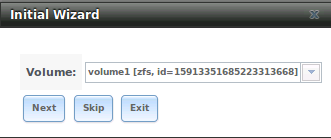
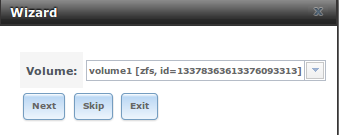
Update initial wizard.

Changed region(s): [[0.0, 0.0889, 1.0, 1.0], [0.0604, 0.6815, 0.4834, 0.8889], [0.0, 0.0, 1.0, 0.1481]]

diff --git a/docs/userguide/freenas_quick.rst b/docs/userguide/freenas_quick.rst
@@ -129,9 +129,25 @@ Beginning with FreeNAS® 9.3, a configuration wizard automatically starts the fi
 steps needed to quickly configure FreeNAS® to start serving data over a network. This section describes these configuration steps. If you wish to use the
 wizard again after the initial configuration, click the "Wizard" icon.
 
-Figure 3.1a shows the initial wizard configuration screen that appears if the storage disks have not yet been formatted.
+Figure 3.1a shows the initial wizard configuration screen.
 
 **Figure 3.1a: Initial Configuration Wizard**
+
+|wizard.png|
+
+.. |wizard.png| image:: images/wizard.png
+    :width: 2.7in
+    :height: 1.8in
+
+.. note:: you can exit the wizard at any time by clicking the "Exit" button. However, exiting the wizard will not save any selections. You can always restart
+   the wizard again by clicking the "Wizard" icon. Alternately, you can use the FreeNAS® GUI to configure the system, as described in the rest of this Guide.
+
+This screen can be used to change the default language, keyboard map, and timezone. After making your selections, click "Next". The next screen depends on
+whether or not the storage disks have already been formatted into a ZFS pool.
+
+Figure 3.1b shows the configuration screen that appears if the storage disks have not yet been formatted.
+
+**Figure 3.1b: Volume Creation Wizard**
 
 |wizard1.png|
 
@@ -148,7 +164,8 @@ to make a more complex configuration, click the "Exit" button to close the "Wiza
 
 The following redundancy types are available:
 
-* **Automatic:**
+* **Automatic:** automatically creates a mirrored, RAIDZ1, or RAIDZ2 pool, depending upon the number of disks. If you prefer to control the type of
+  redundancy, select one of the other options.
 
 * **RAID 10:** creates a striped mirror and requires a minimum of 4 disks.
 
@@ -160,9 +177,9 @@ The following redundancy types are available:
 
 Once you have made your selection, click "Next" to continue.
 
-If the disks have already been formatted with ZFS, the initial wizard screen will instead prompt to import the volume, as seen in Figure 3.1b.
+If the disks have already been formatted with ZFS, the next screen will instead prompt to import the volume, as seen in Figure 3.1c.
 
-**Figure 3.1b: Volume Import Screen**
+**Figure 3.1c: Volume Import Screen**
 
 |wizard2.png|
 
@@ -172,12 +189,9 @@ If the disks have already been formatted with ZFS, the initial wizard screen wil
 
 Select the existing volume from the drop-down menu and click "Next" to continue.
 
-.. note:: you can exit the wizard at any time by clicking the "Exit" button. However, exiting the wizard will not save any selections. You can always restart
-   the wizard again by clicking the "Wizard" icon. Alternately, you can use the FreeNAS® GUI to configure the system, as described in the rest of this Guide.
+The next screen in the wizard is shown in Figure 3.1d.
 
-The next screen in the wizard is shown in Figure 3.1c.
-
-**Figure 3.1c: Directory Service Selection**
+**Figure 3.1d: Directory Service Selection**
 
 |wizard3.png|
 
@@ -277,9 +291,9 @@ which directory service is selected. Tables 3.1a to 3.1d summarize the available
 |                         |                |                                                                                                       |
 +-------------------------+----------------+-------------------------------------------------------------------------------------------------------+
 
-The next configuration screen, shown in Figure 3.1d, can be used to create the network shares.
+The next configuration screen, shown in Figure 3.1e, can be used to create the network shares.
 
-**Figure 3.1d: Share Creation**
+**Figure 3.1e: Share Creation**
 
 |wizard4.png|
 
@@ -305,9 +319,9 @@ To create a share using the wizard, input a name, then select the "Purpose" of t
 * **Block Storage (iSCSI):** this type of share can be accessed by any operating system using iSCSI initiator software. Input the size of the block storage to
   create in the format *20G* (for 20 GB). If you make any iSCSI shares using the wizard, you can fine-tune them afterwards using :ref:`iSCSI`.
 
-After selecting the "Purpose", click the "Ownership" button to see the screen shown in Figure 3.1e.
+After selecting the "Purpose", click the "Ownership" button to see the screen shown in Figure 3.1f.
 
-**Figure 3.1e: Share Permissions**
+**Figure 3.1f: Share Permissions**
 
 |wizard5.png|
 
@@ -323,9 +337,9 @@ appear in the "Name" frame.
 You can use the "Delete" button to remove the highlighted share in the "Name" frame. If you need to edit a share, highlight it, make the change, then press
 the "Update" button.
 
-When you are finished making shares, click the "Next" button to advance to the screen shown in Figure 3.1f.
+When you are finished making shares, click the "Next" button to advance to the screen shown in Figure 3.1g.
 
-**Figure 3.1f: Miscellaneous Settings**
+**Figure 3.1g: Miscellaneous Settings**
 
 |wizard6.png|
 
